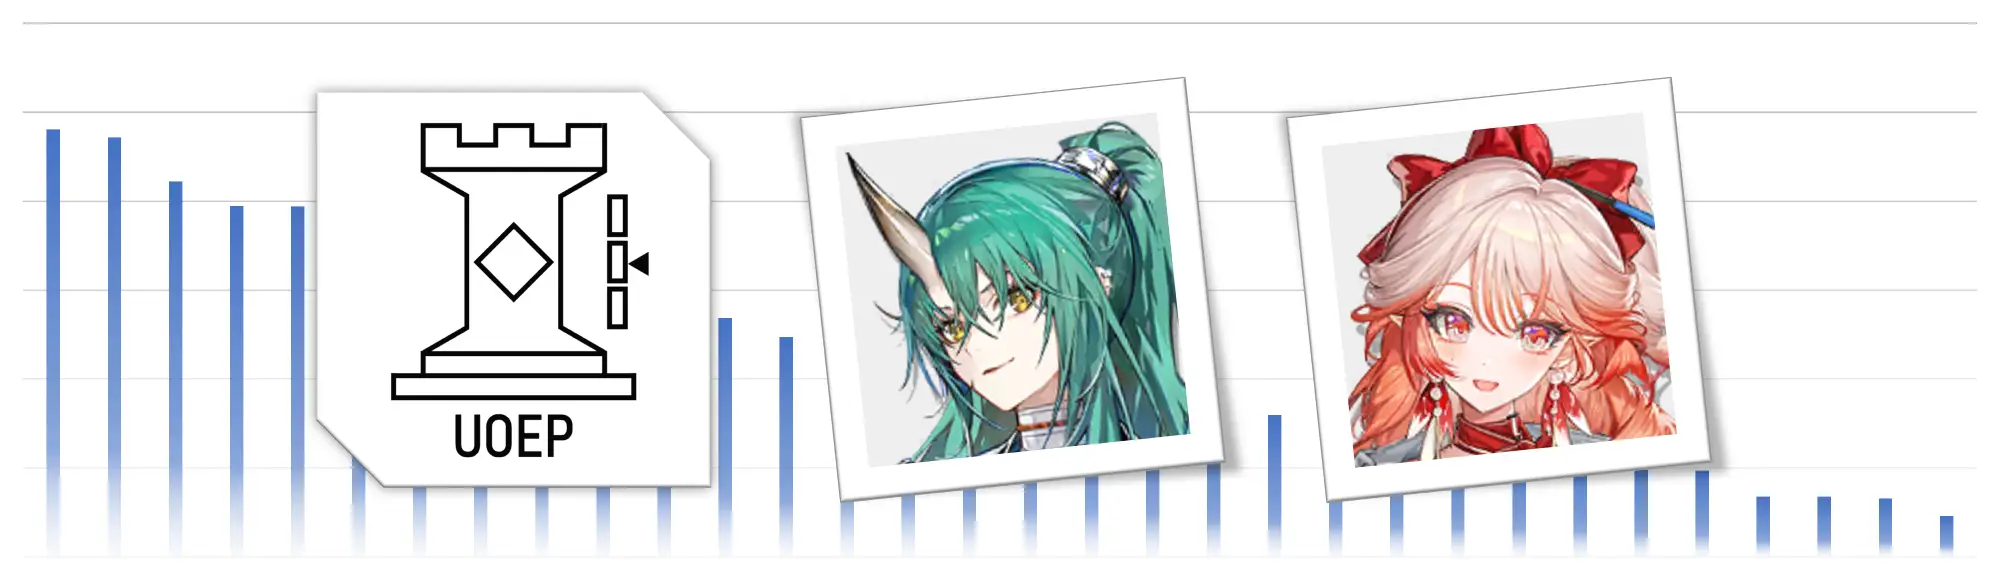
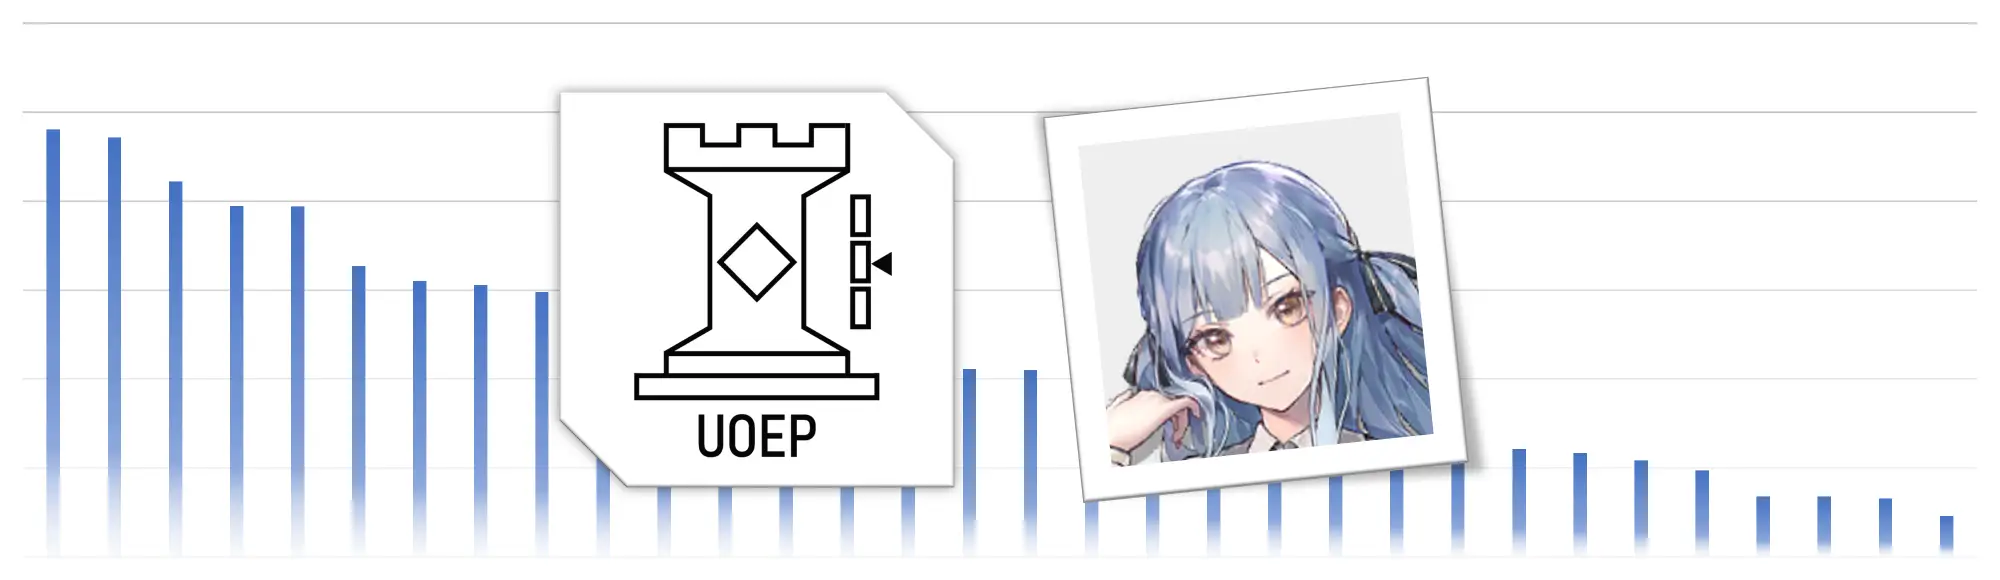
pages: update release note

Changed region(s): [[0.155, 0.1241, 0.868, 0.869], [0.806, 0.1241, 0.837, 0.1552]]

diff --git a/releases/latest.md b/releases/latest.md
@@ -1,4 +1,4 @@
-# v0.5.0: 斩业星熊、遥等 (2025/08/04)
+# v0.6.0: 丰川祥子等 (2025/09/10)
 
 下载表示您同意[协议](../licenses/EULA.md)
 - [下载明日方舟干员伤害数据表](../data/%E6%98%8E%E6%97%A5%E6%96%B9%E8%88%9F%E5%B9%B2%E5%91%98%E4%BC%A4%E5%AE%B3%E6%95%B0%E6%8D%AE%E8%A1%A8.xlsb)（推荐，包含完整功能，需使用电脑打开）
@@ -7,6 +7,18 @@
 <img src="../resources/cover.webp" alt="UOEP 当前版本封面图" width="600" height="auto" >
 
 ### What's new
-- 新增：收录干员：斩业星熊，遥
-- 新增：收录敌人：便符，皮书生，平剑客，靳天师，似兽，怪葫芦，梁，坎某人，夕娥，双月共主，玉双剑，枣大刀，炭长矛，昭烈君，文衡君，桓君，师祖，太公，易，“岁”，“望”
-- 修复：输出实战瞬间吃拐率数据不正确的问题
+- 新增：收录干员：丰川祥子，更新输出、承伤、增伤数据
+- 新增：收录模组：塑心Y、煌Y、妮芙X、烛煌X、假日威龙陈Y(仅干员信息)、琳琅诗怀雅α(仅干员信息)、佩佩α(仅干员信息)，更新输出、承伤、元素数据
+- 新增：收录敌人：“某种天命”，“某种天命”(HI02)，冒失的小弟，资深的小弟，雷遁忍者，雷遁宗师，悲观的大哥，绝望的大哥，土遁忍者，土遁宗师，水遁忍者，水遁宗师，风遁忍者，风遁宗师，澪，压力舒缓帮手，压力归零帮手，三船光平，浅睡的臼齿，沉睡的臼齿，布景小丑，布景大师，发条仆从，暗黑发条仆从，玩耍的卡尔顿，欢快的卡尔顿，安眠伴随兽，沉眠伴随兽，梦游管家，梦游大总管，沃尔夫之影，沃尔夫幽影，“破茧之梦”，“羽化之梦”，莫菲丝，“绝对安保”试做型
+- 新增：编译器支持目标语言JavaScript
+- 优化：部分公式格式微调
+- 修复：琳琅诗怀雅所有技能DPS不正确的问题
+- 修复：司霆惊蛰一技能瞬间输出总伤不正确的问题
+- 修复：塑心一技能对副目标DPS不正确的问题
+- 修复：烛煌二技能、三技能受到增益后伤害不正确的问题
+- 修复：莱伊二技能初动时长不正确的问题、三技能受到大量攻速加成后报错的问题
+- 修复：引星棘刺二技能、三技能回转时长和周期DPS不正确的问题
+- 修复：Mon3tr三技能初动、持续时长不正确的问题
+- 修复：玛露西尔一技能持续时长不正确的问题
+- 修复：辅助铃兰X和Y模组同时生效的问题
+- 修复：伊内丝伤害类型不正确的问题

diff --git a/README.md b/README.md
@@ -5,9 +5,8 @@
 UOEP是一个可广泛用于明日方舟干员、随着游戏更新不断发展、涵盖各种环境和干员各项能力、一键自动计算干员强度的评价体系。
 
 ### 最新消息
-- UOEP当前版本: v0.5.0，[去下载数据表](releases/latest.md)
-- 网页版DPS计算器已发布，<a href="https://ark-dps.com">去体验
-<img src="resources/arkdps.webp" alt="ArkDPS Logo" width="16" height="16" style="margin-left: 2px; margin-right: 2px">ArkDPS（推荐）</a>
+- UOEP当前版本: v0.6.0，[去下载数据表](releases/latest.md)
+- 网页版DPS计算器已发布，<a href="https://ark-dps.com">去体验 <img src="resources/arkdps.svg" alt="ArkDPS Logo" width="16" height="16"> ArkDPS</a>
 
 ### 了解更多
 - 我想了解干员强度 👉 [干员强度图](https://www.bilibili.com/opus/1096840639180439587)
